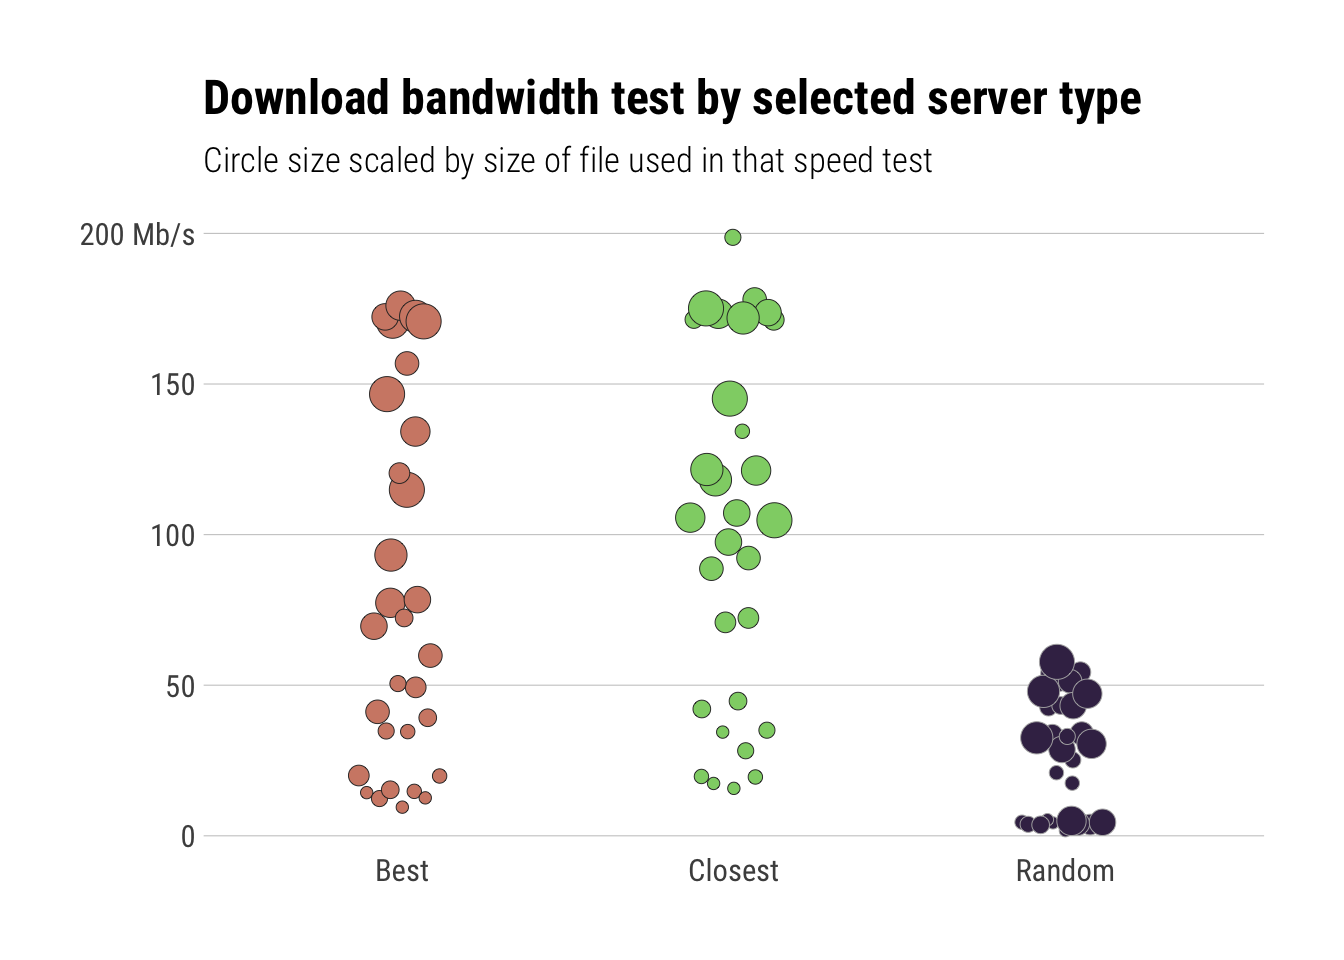
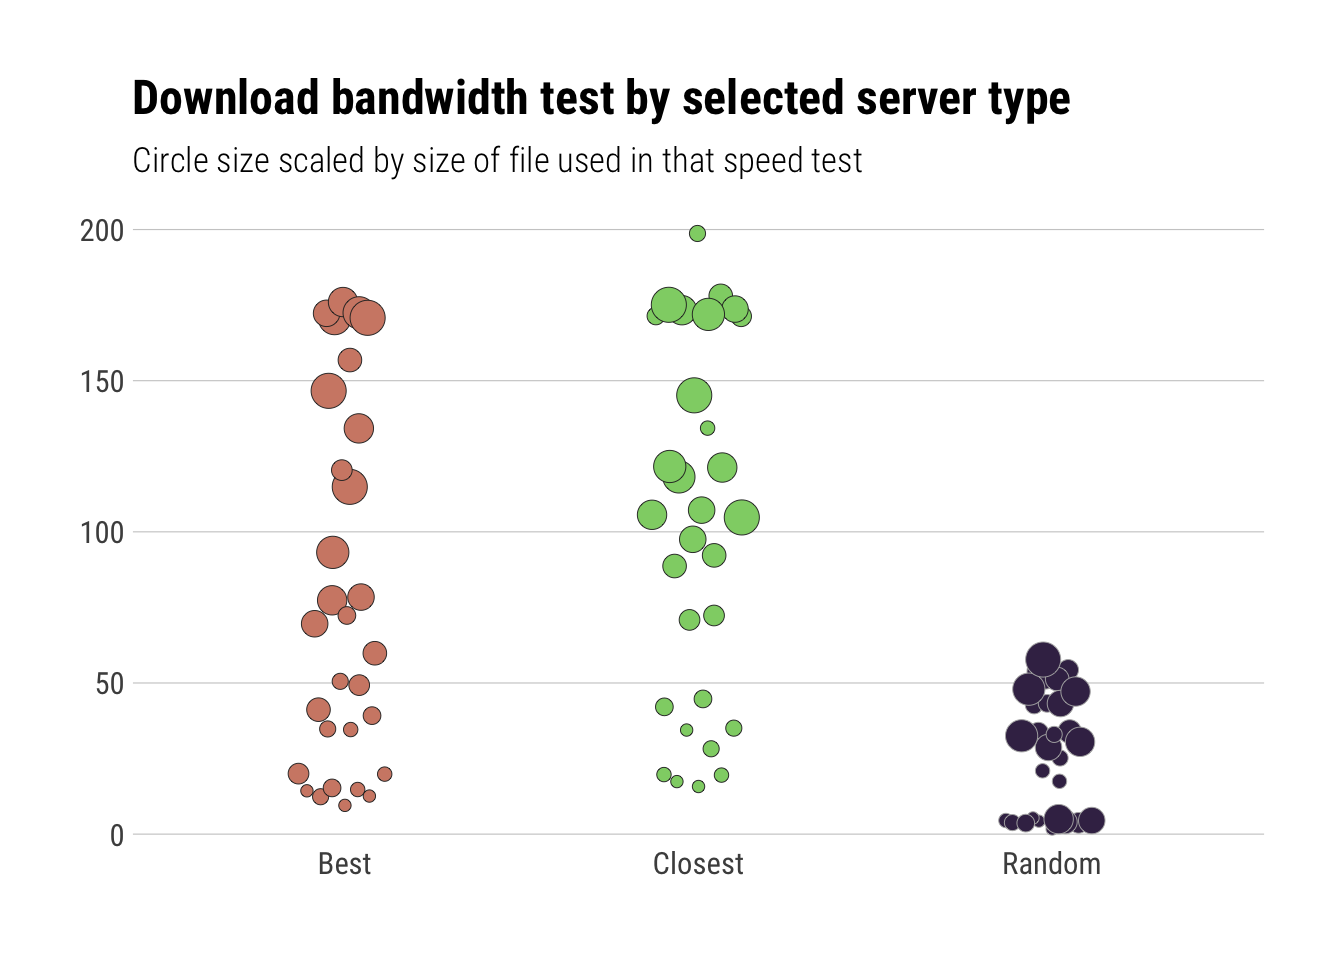
README

diff --git a/README.md b/README.md
@@ -47,18 +47,18 @@ Folks interested in contributing can take a look at the TODOs and pick
 as many as you like\! Ones with question marks are truly a “I dunno if
 we shld” kinda thing. Ones with exclamation marks are essentials.
 
-  - \[ \] Cache config in memory at startup vs pass around to functions?
-  - \[ \] Figure out how to use beta sockets hidden API vs the old Flash
+  - [ ] Cache config in memory at startup vs pass around to functions?
+  - [ ] Figure out how to use beta sockets hidden API vs the old Flash
     API?
-  - \[ \] Ensure the efficacy of relying on the cURL timings for speed
+  - [ ] Ensure the efficacy of relying on the cURL timings for speed
     measures for the Flash API
-  - \[ \] Figure out best way to capture the results for post-processing
-  - \[ \] Upload results to speedtest (tis only fair)\!
-  - \[ \] Incorporate more network or host measures for better
-    statistical determination of the best target\!
-  - \[ \] `autoplot` support\!
-  - \[ \] RStudio Add-in
-  - \[ \] Shiny app?
+  - [ ] Figure out best way to capture the results for post-processing
+  - [ ] Upload results to speedtest (tis only fair)\!
+  - [ ] Incorporate more network or host measures for better statistical
+    determination of the best target\!
+  - [ ] `autoplot` support\!
+  - [ ] RStudio Add-in
+  - [ ] Shiny app?
 
 ## Installation
 
@@ -248,7 +248,7 @@ map_df(1:nrow(to_compare), ~{
 mutate(dl_results_full, type=stri_trans_totitle(type)) %>%
   ggplot(aes(type, bw, fill=type)) +
   geom_quasirandom(aes(size=size, color=type), width=0.15, shape=21, stroke=0.25) +
-  scale_y_continuous(expand=c(0,5), labels=c(sprintf("%s", seq(0,150,50)), "200 Mb/s"), limits=c(0,200)) +
+  scale_y_continuous(expand=c(0,5)) +
   scale_size(range=c(2,6)) +
   scale_color_manual(values=c(Random="#b2b2b2", Best="#2b2b2b", Closest="#2b2b2b")) +
   scale_fill_ipsum() +
@@ -295,8 +295,7 @@ map_df(1:nrow(to_compare), ~{
 ``` r
 ggplot(ul_results_full, aes(x="Upload Test", y=bw)) +
   geom_quasirandom(aes(size=size, fill="col"), width=0.1, shape=21, stroke=0.25, color="#2b2b2b") +
-  scale_y_continuous(expand=c(0,0.5), breaks=seq(0,16,4),
-                     labels=c(sprintf("%s", seq(0,12,4)), "16 Mb/s"), limits=c(0,16)) +
+  scale_y_continuous(expand=c(0,0.5)) +
   scale_size(range=c(2,6)) +
   scale_fill_ipsum() +
   labs(x=NULL, y=NULL, title="Upload bandwidth test by selected server type",
